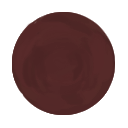
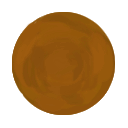
Add energy orb.

diff --git a/src/main/java/tenno_mod/characters/Tenno.java b/src/main/java/tenno_mod/characters/Tenno.java
@@ -47,7 +47,7 @@ public class Tenno extends CustomPlayer {
       "img/UI/EPanel/layer4d.png",
       "img/UI/EPanel/layer5d.png"
   };
-  private static final String ORB_VFX = "img/UI/energyRedVFX.png";
+  private static final String ORB_VFX = "img/UI/energyBlueVFX.png";
   private static final float[] LAYER_SPEED =
       {-40.0F, -32.0F, 20.0F, -20.0F, 0.0F, -10.0F, -8.0F, 5.0F, -5.0F, 0.0F};
 

diff --git a/README.md b/README.md
@@ -19,14 +19,6 @@ Graphics progress:
     * Idle/Dead graphic: SKIPPED
     * Campfire Shoulder view: DONE
     * Card backgrounds DONE
-    * Energy Orb (0/1)
+    * Energy Orb DONE
 
-Progress will be slow. The current plan is:
-
-* Relics will be done by hand.
-* Cards will use in-game screenshots (Captura or Warframe mod images)
-* The idle graphic and shoulder view will use Captura shots.
-* Card backgrounds will be simple color edits - likely the colorless card
-background with yellow trim.
-* Energy Orb will be a recoloring of base-game orbs, but with the outline
-changed to resemble an Orokin Ducat. 
+Last step before the 1.0 release is a balance pass. 

diff --git a/Changelog.md b/Changelog.md
@@ -1,3 +1,7 @@
+## 6/1/2019 - 0.9.0
+
+Finished the energy orb. 
+
 ## 6/1/2019 - 0.8.0
 
 Finishes the cards. The energy orb will probably come in a few days. 
